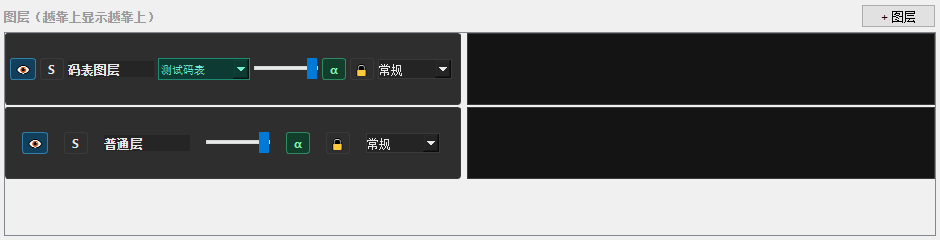
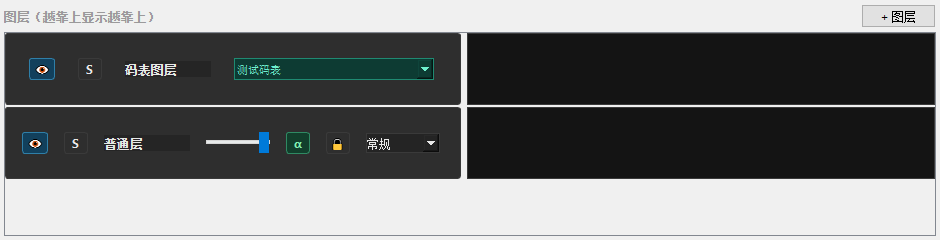
feat(cue): 码表图层头部只留码表选择（去掉不透明度/α/锁/混合）
用户原话：「一整个啊 不要右边那些东西啊 那些不是在码表里都做好了吗」
⇒ 不透明度 / α / 锁 / 混合模式 是**码表里每个片段/层自己定义**的（Cue 端
blend / opacity），演出端再给一遍只会跟码表的定义打架。

改法：`LayerStackPanel._apply_cue_header_mode(f, lay)`
· `is_cuesheet` ⇒ 那 4 个控件 `setVisible(False)`：**隐藏不销毁**，
  **信号接线一律不动** ⇒ 卸下码表（切回普通图层）时立刻恢复原样，不重建控件
· 码表下拉因此能吃下更多宽度：**92 → 200**（长表名能看清），
  且紧接在图层名旁边、右侧留白（用户接受"右侧空白，无滑杆/α/锁/混合"）
· 普通图层：只做"全部可见 + 下拉 92"，**逐像素不变**

判据
1. 截图 `tools/_cueshots/page4_layer_combo.png`：码表图层 = [👁][S] 名称 [▼表名(200px)]，右侧空白
   真窗口 `ui_page1_layer_combo.png`：同屏对照——上排码表图层无右侧控件、下排普通图层四个都在
2. 逐像素：`cue_badge_test` ④ 仍 **md5 一致**（普通层头部与改动前逐控件 + 逐像素相同）
3. 功能：换表/卸下仍可用；卸下后 4 个控件**恢复可见**、下拉宽度回 92（已断言）；
   新建「码表图层」流程不变
4. 回归 15 项全绿（含 pixel_diff_guard 11 场景 0 字节差异）

新增断言：码表层可见子控件恰为 4 个（用 layout 项数，不用 findChildren——
后者在 PySide6 上只返回部分子控件会误判）+ 隐藏后 `_op` 仍能驱动图层（证明信号未断）。

Changed region(s): [[0.0, 0.2333, 0.4936, 0.35]]

diff --git a/tools/cue_page_test.py b/tools/cue_page_test.py
@@ -27,7 +27,9 @@ SHOT_DIR = os.path.join(HERE, "_cueshots")
 if SRC not in sys.path:
     sys.path.insert(0, SRC)
 
-from PySide6.QtWidgets import QApplication, QAbstractItemView          # noqa: E402
+from PySide6.QtCore import Qt                                        # noqa: E402
+from PySide6.QtWidgets import (QApplication, QAbstractItemView,       # noqa: E402
+                               QWidget)
 
 import cuesheet                                                       # noqa: E402
 import cue_page                                                       # noqa: E402
@@ -383,8 +385,38 @@ def main():
     check("码表层的下拉**可见**", not hdr_cue._cmb_cue.isHidden())
     check("下拉显示表名「测试码表」", hdr_cue._cmb_cue.currentText() == "测试码表",
           hdr_cue._cmb_cue.currentText())
-    check("下拉宽度紧凑（≤92px）", hdr_cue._cmb_cue.width() <= 92,
+    # 用户 2026-10：「一整个啊 不要右边那些东西啊」⇒ 码表图层右侧 4 个控件隐藏，
+    # 空出来的宽度给下拉（92 → 200）
+    check("码表图层：下拉加宽到 200（右侧控件隐藏后腾出的宽度）",
+          hdr_cue._cmb_cue.width() == panels.LayerStackPanel.CUE_COMBO_W,
           hdr_cue._cmb_cue.width())
+    for nm in ("_op", "_btn_alpha", "_btn_lock", "_blend"):
+        w = getattr(hdr_cue, nm, None)
+        check("码表图层：%s 已隐藏（不占布局）" % nm, w is not None and w.isHidden(),
+              None if w is None else w.isHidden())
+    # ⚠ 可见性必须在 show() 之后判：未 show 的窗口里子控件 `isHidden()` 全是 True（假象）
+    ok_s, path_s = shot(lsp, "page4_layer_combo.png", 940, 240)
+    check("截图已落盘 page4_layer_combo.png", ok_s, path_s)
+    # ⚠ 用 layout 项来数（`findChildren(QWidget, "", DirectChildrenOnly)` 在 PySide6 上
+    #   只返回一部分，会误判）
+    lay_cue = hdr_cue.layout()
+    vis_cue = []
+    for _i in range(lay_cue.count()):
+        _w = lay_cue.itemAt(_i).widget()
+        if _w is not None and not _w.isHidden():
+            vis_cue.append(type(_w).__name__)
+    print("      码表图层头可见子控件 = %s" % vis_cue)
+    check("码表图层头只剩 4 个控件（👁 / S / 名称 / 下拉）",
+          len(vis_cue) == 4, vis_cue)
+    check("普通图层：4 个控件仍然可见（一个像素都没动）",
+          all(not getattr(hdr_plain, nm).isHidden()
+              for nm in ("_op", "_btn_alpha", "_btn_lock", "_blend")))
+    # 隐藏必须"不销毁"：信号接线还在 —— 用**行为**证明（改值 ⇒ 图层不透明度跟着变）
+    lay2.opacity = 1.0
+    hdr_cue._op.setValue(40)
+    check("隐藏后 _op 仍能驱动图层（valueChanged 未断）",
+          abs(float(lay2.opacity) - 0.40) < 1e-6, lay2.opacity)
+    hdr_cue._op.setValue(100)
     check("普通层没有可见的码表下拉", hdr_plain._cmb_cue.isHidden(),
           hdr_plain._cmb_cue.isHidden())
     items = [hdr_cue._cmb_cue.itemText(i) for i in range(hdr_cue._cmb_cue.count())]
@@ -392,9 +424,6 @@ def main():
     check("下拉含「（无码表）」", "（无码表）" in items, items)
     check("下拉含两张码表", "测试码表" in items and "第二张" in items, items)
     check("下拉末尾是「导入新码表…」", items[-1] == "导入新码表…", items)
-    ok_s, path_s = shot(lsp, "page4_layer_combo.png", 940, 240)
-    check("截图已落盘 page4_layer_combo.png", ok_s, path_s)
-
     # ================= ⑨ 下拉切换（换表 / 卸下） =================
     print("\n⑨ 下拉切换：换表 ⇒ 引擎的表变；选「（无码表）」⇒ 卸下")
     cmb = hdr_cue._cmb_cue
@@ -418,6 +447,14 @@ def main():
     check("卸下后下拉变回「（无码表）」", cmb.currentText() == "（无码表）",
           cmb.currentText())
     check("卸下后下拉隐藏（普通图层布局不变）", cmb.isHidden(), cmb.isHidden())
+    # 隐藏 ≠ 销毁：卸下后右侧 4 个控件必须**原样回来**（信号也一直没断）
+    check("卸下后 滑杆/α/锁/混合 全部恢复可见（隐藏不是销毁）",
+          all(not getattr(hdr_cue, nm).isHidden()
+              for nm in ("_op", "_btn_alpha", "_btn_lock", "_blend")),
+          [getattr(hdr_cue, nm).isHidden()
+           for nm in ("_op", "_btn_alpha", "_btn_lock", "_blend")])
+    check("卸下后下拉宽度回到 92（普通图层口径）",
+          cmb.width() == panels.LayerStackPanel.CUE_COMBO_W_COMPACT, cmb.width())
 
     # ================= ⑫ 下拉文本：未绑 / 名字空白的表 都要看得出区别 =================
     print("\n⑫ 下拉文本防御：绝不能出现空文本（否则「没绑」和「绑了空名表」混不起来）")

diff --git a/src/panels.py b/src/panels.py
@@ -2388,6 +2388,11 @@ class LayerStackPanel(QWidget):
     layer_pick = Signal(int)
     header_changed = Signal()                 # 任一图层属性被改（由外部保存配置）
 
+    #: 码表下拉宽度。普通图层：右侧还有 不透明度/α/锁/混合 ⇒ 只剩 92px 可用；
+    #: 码表图层：那 4 个控件隐藏（不占布局）⇒ 可以宽到 200px，长表名能看清。
+    CUE_COMBO_W_COMPACT = 92
+    CUE_COMBO_W = 200
+
     def __init__(self, main):
         super().__init__()
         self.main = main
@@ -2666,10 +2671,11 @@ class LayerStackPanel(QWidget):
         # ★ 码表选择（用户要求 2026-10）：原来是青绿「码」方徽标，点开弹菜单；
         #   现在换成**一整个码表下拉选项**（未绑显示「（无码表）」/ 已绑显示表名）。
         #   ⚠ **只在 `is_cuesheet` 时显示**（隐藏时 QLayout 不占位 ⇒ 普通图层头部逐像素不变）
-        #   ⚠ 宽度 92 是硬约束：图层头固定 HEADER_W=456，现有控件已占 358px
+        #   ⚠ 宽度见 `_apply_cue_header_mode`：普通图层占位时 92，码表图层把右侧控件
+        #     隐藏后可以宽到 200（长表名能看清）
         cmb_cue = QComboBox()
         cmb_cue.setObjectName("cmbCue")
-        cmb_cue.setFixedSize(92, 22)
+        cmb_cue.setFixedSize(self.CUE_COMBO_W_COMPACT, 22)
         cmb_cue.setProperty("_i18nDynamic", True)   # 文本是表名（用户数据）
         cmb_cue.setVisible(bool(getattr(lay, "is_cuesheet", False)))
         self._fill_cue_combo(cmb_cue, lay)
@@ -2736,7 +2742,34 @@ class LayerStackPanel(QWidget):
             btn_vis, btn_solo, name, op, blend, btn_alpha, btn_lock)
         f._btn_role = btn_role
         f._cmb_cue = cmb_cue
+        # 码表图层 / 普通图层的头部**排布不同** ⇒ 建好就应用一次
+        self._apply_cue_header_mode(f, lay)
         return f
+
+    # ---- 码表图层的头部排布（右侧 4 个控件隐藏）----
+    def _apply_cue_header_mode(self, f, lay):
+        """码表图层：头部只留 `[👁][S] 图层名 [▼ 码表]`。
+
+        用户 2026-10：「一整个啊 不要右边那些东西啊 那些不是在码表里都做好了吗」
+        ⇒ **不透明度 / α / 锁 / 混合模式** 是码表里**每个片段/层自己定义的**
+          （Cue 端的 `blend` / `opacity`），演出端再给一遍只会跟码表打架。
+
+        ⚠ **隐藏而不是销毁**：`setVisible(False)` ⇒
+          ① 隐藏控件不占布局（QLayout 跳过）⇒ 右侧控件消失后下拉能吃下更多宽度；
+          ② **信号接线一律不动** ⇒ 换回普通图层（卸下码表）时 `setVisible(True)`
+             立刻恢复原样，不用重建控件。
+        ⚠ 普通图层：这里只做"全部可见 + 下拉 92"，与改动前**逐像素一致**。
+        """
+        is_cue = bool(getattr(lay, "is_cuesheet", False))
+        for w in (getattr(f, "_op", None), getattr(f, "_btn_alpha", None),
+                  getattr(f, "_btn_lock", None), getattr(f, "_blend", None)):
+            if w is not None:
+                w.setVisible(not is_cue)
+        cmb = getattr(f, "_cmb_cue", None)
+        if cmb is not None:
+            cmb.setVisible(is_cue)
+            # 码表图层右侧空了 ⇒ 下拉加宽到 200（长表名能看清）；普通图层保持 92
+            cmb.setFixedWidth(self.CUE_COMBO_W if is_cue else self.CUE_COMBO_W_COMPACT)
 
     # ---- 码表下拉（图层头） ----
     def _fill_cue_combo(self, cmb, lay):
@@ -2972,14 +3005,13 @@ class LayerStackPanel(QWidget):
             f._btn_lock.setChecked(bool(getattr(lay, "lock_motion", False)))
             f._name.setText(lay.name)
             f._name.setToolTip(lay.name + T("\n双击重命名"))
-            # 码表下拉：只在码表层显示（隐藏不占位 ⇒ 普通图层布局逐像素不变）
+            # 码表下拉 + 头部排布：码表层只留 [👁][S] 名称 [▼码表]，右侧 4 个控件隐藏
             cmb_cue = getattr(f, "_cmb_cue", None)
             if cmb_cue is not None:
-                is_cue = bool(getattr(lay, "is_cuesheet", False))
-                cmb_cue.setVisible(is_cue)
-                if is_cue:
+                if bool(getattr(lay, "is_cuesheet", False)):
                     # 表名 / 绑定的包可能变了（换表、导入、被移出列表）⇒ 重建选项并选中当前项
                     self._fill_cue_combo(cmb_cue, lay)
+            self._apply_cue_header_mode(f, lay)
             for w in (f._btn_vis, f._btn_solo, f._op, f._blend, f._btn_alpha, f._btn_lock):
                 w.blockSignals(False)
             # 角色按钮（自动图层专属）
